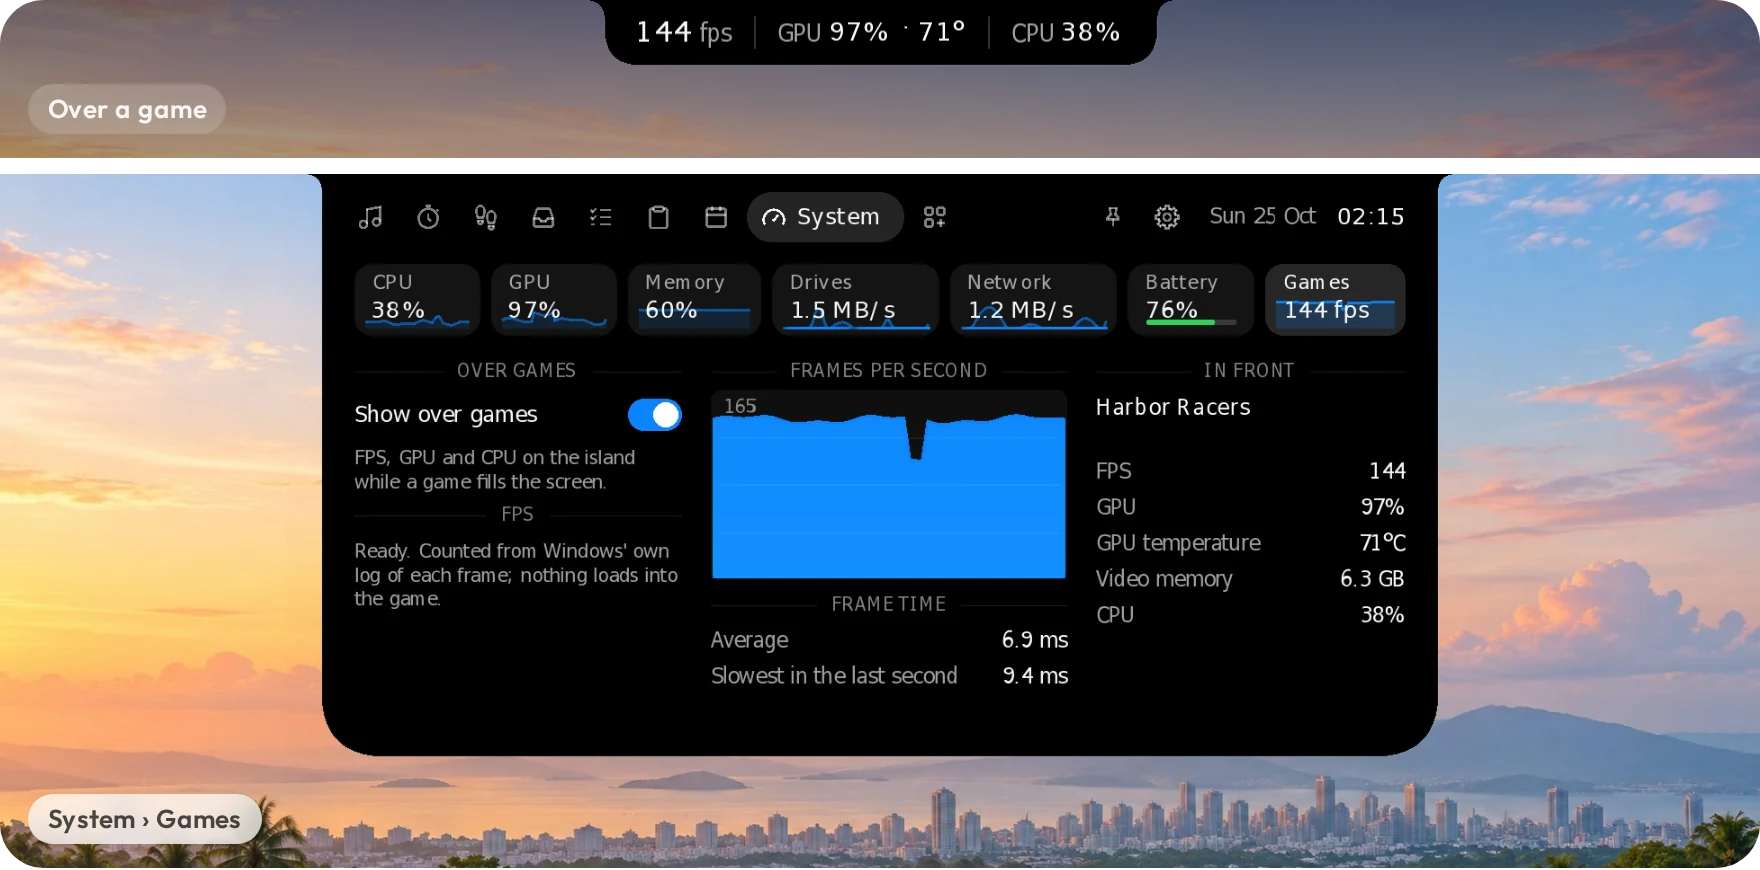
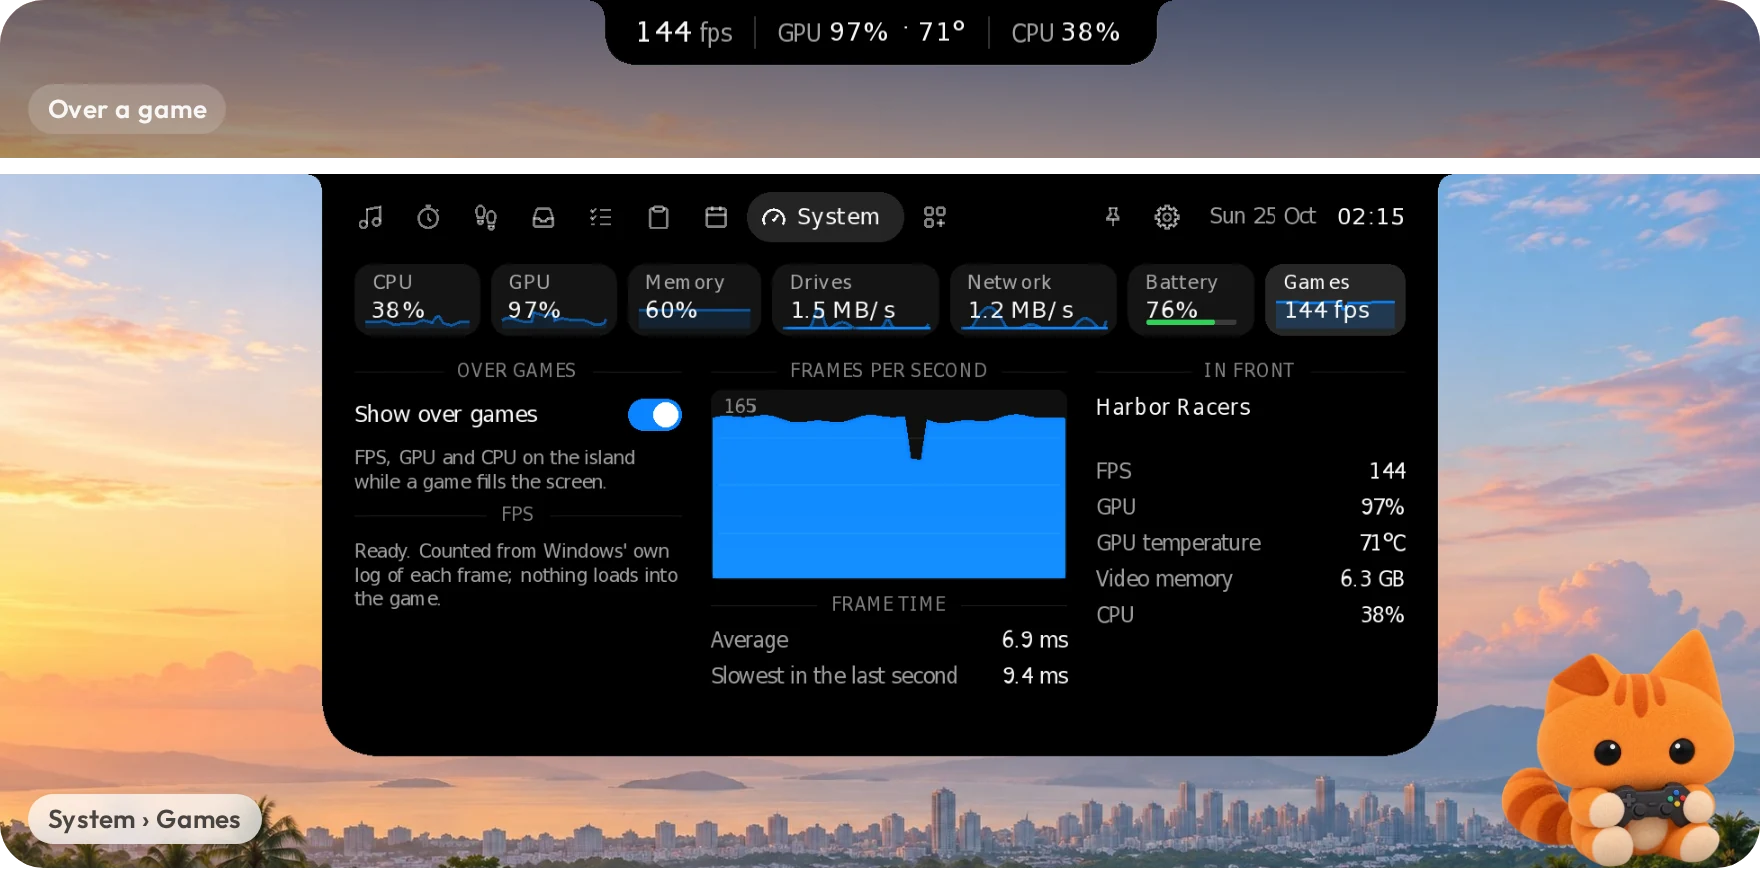
README pictures: Oyen for System, Show over games and Prayer (#66)
The System picture borrowed the Today pose (Oyen with a calendar), and
the Show over games and Prayer pictures had no Oyen. Three new poses of
the same plush Oyen: a processor chip for System, a game controller for
Show over games, and a lantern for Prayer. Each stands on the right,
beside the island and clear of the labels; the rest of each picture is
unchanged.

Changed region(s): [[0.8438, 0.7138, 1.0, 1.0]]

diff --git a/tools/readme_art.html b/tools/readme_art.html
@@ -86,7 +86,7 @@ img { display: block; }
 <figure class="card" id="games">
   <div class="grid">
     <div class="stage dusk" data-pad="46"><img class="isl" src="../site/assets/shots/classic/game-stats.webp" alt=""><span class="tag">Over a game</span></div>
-    <div class="stage" data-pad="46"><img class="isl" data-scale="0.9" src="../site/assets/shots/classic/page-system-games.webp" alt=""><span class="tag">System › Games</span></div>
+    <div class="stage" data-pad="46"><img class="isl" data-scale="0.9" src="../site/assets/shots/classic/page-system-games.webp" alt=""><img class="pose" data-side="right" data-w="118" src="../docs/brand/art/poses/oyen-games.webp" alt=""><span class="tag">System › Games</span></div>
   </div>
 </figure>
 
@@ -94,7 +94,7 @@ img { display: block; }
 <figure class="card" id="system">
   <div class="stage" data-pad="30">
     <img class="isl" data-scale="0.9" src="../site/assets/shots/classic/page-system.webp" alt="">
-    <img class="pose" data-side="right" data-w="118" src="../docs/brand/art/poses/oyen-today.webp" alt="">
+    <img class="pose" data-side="right" data-w="118" src="../docs/brand/art/poses/oyen-system.webp" alt="">
   </div>
 </figure>
 
@@ -130,7 +130,7 @@ img { display: block; }
 <figure class="card" id="prayer">
   <div class="grid">
     <div class="stage" data-pad="46"><img class="isl" src="../site/assets/shots/classic/prayer-countdown.webp" alt=""><span class="tag">Before each prayer</span></div>
-    <div class="stage" data-pad="46"><img class="isl" data-scale="0.9" src="../site/assets/shots/classic/page-prayer.webp" alt=""><span class="tag">Prayer tab</span></div>
+    <div class="stage" data-pad="46"><img class="isl" data-scale="0.9" src="../site/assets/shots/classic/page-prayer.webp" alt=""><img class="pose" data-side="right" data-w="118" src="../docs/brand/art/poses/oyen-prayer.webp" alt=""><span class="tag">Prayer tab</span></div>
   </div>
 </figure>
 

diff --git a/docs/brand/README.md b/docs/brand/README.md
@@ -9,7 +9,7 @@ Oyen Poni belongs to the Oyen family. Oyen is the orange cat of the Oyenza logo.
 | `art/oyen-poni-sit.webp` | Oyen sitting on the island while it plays music (the installer's welcome and finish picture) |
 | `art/oyen-poni-peek.webp` | Oyen peeking over the island while it plays music (README, link preview) |
 | `art/oyen-poni-asleep.webp` | Oyen asleep on the island while it plays music (the website's Oyen theme section) |
-| `art/poses/oyen-*.webp` | Oyen with each page's prop: music, focus, health, shelf, tasks, clipboard, today (README and website) |
+| `art/poses/oyen-*.webp` | Oyen with each page's prop: music, focus, health, shelf, tasks, clipboard, today, system (a processor chip), games (a controller), prayer (a lantern) (README pictures and website) |
 | `readme-hero.webp` | The README banner: a 200 % screenshot of the website's hero (`site/index.html`), so the README shows the site's type |
 | `social-preview.png` | The card GitHub shows when the repo link is shared (Settings → General → Social preview) |
 
